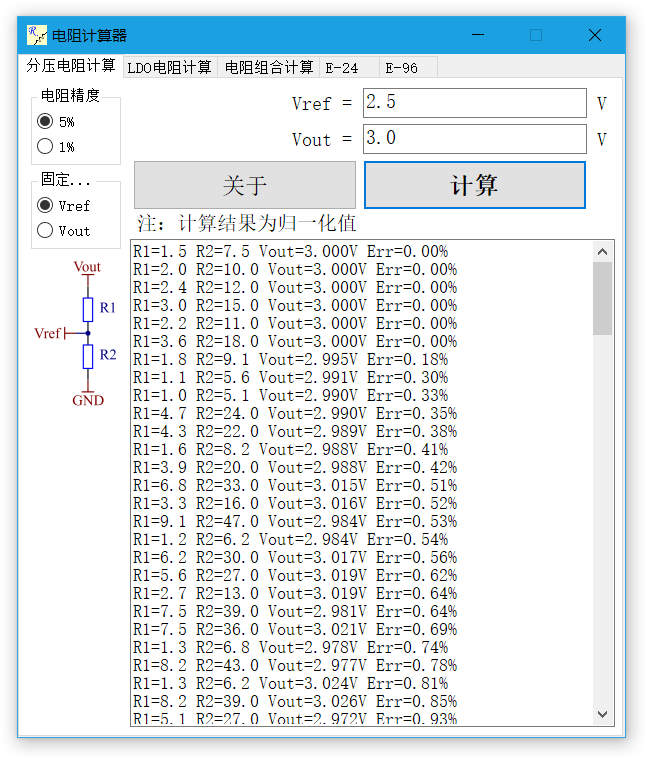
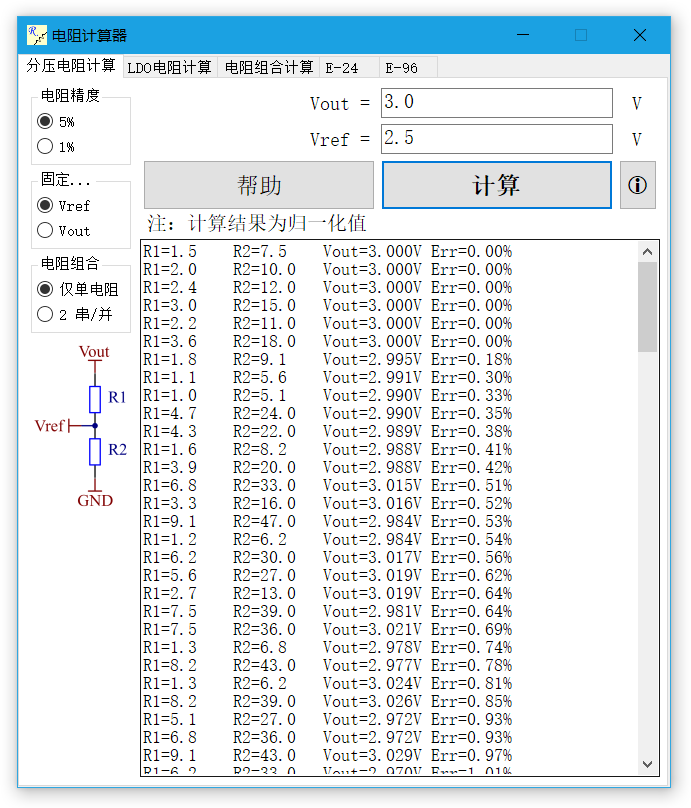
update post

Changed region(s): [[0.0, 0.0303, 0.9907, 1.0]]

diff --git a/_posts/2024-05-04-电路实用工具——分压电阻计算器.md b/_posts/2024-05-04-电路实用工具——分压电阻计算器.md
@@ -5,7 +5,7 @@ date: 2024-05-04 17:49:00 +0800
 categories: [实用工具]
 tags: [电阻计算器]
 copyright:
-image:
+image: /assets/img/2024/电阻计算器logo.png
 math: false
 mermaid: false
 pin: false
@@ -13,9 +13,9 @@ pin: false
 
 不知道为什么，网上找了一圈，没人写过类似的工具，就是已知分压电阻中的两个电压，来计算出应该使用的标准电阻值。能找到的都是用一个电压和两个电阻值来计算分压值……这特么小学生都会算好吧！
 
-所以花了两天时间用Winform搓一个计算器出来，计算给出分压电阻的最接近的组合，还可以用标准阻值计算组合出一个非标准阻值，并且自带5%和1%的标准阻值表。这是[下载链接](/assets/file/2024/电阻计算器v1.6.0.0.zip)(1.6.0.0)
+所以花了两天时间用 Winform 搓一个计算器出来，计算给出分压电阻的最接近的组合，还可以用标准阻值计算组合出一个非标准阻值，并且自带 5% 和 1% 的标准阻值表。这是[下载链接](/assets/file/2024/电阻计算器V2.0.0.0.zip)(2.0.0.0)
 
-MD5: 4543AB4DAC8F9B6335FF1078B7239432
+MD5: 373586B410F226D84A7BC72869F2ED69
 
 **功能简介：**
 
@@ -27,6 +27,7 @@ MD5: 4543AB4DAC8F9B6335FF1078B7239432
 
 **版本更新记录：**
 
+- 2.0.0.0 增加帮助；分压电阻计算增加“电阻组合”选项；输出结果现在会对齐了；电阻组合计算增加并联选项；界面细节优化
 - 1.6.0.0 列表结果显示优化，增加文字说明，增加图标
 - 1.5.0.0 分压电阻可选固定项
 - 1.4.1.0 细节优化
